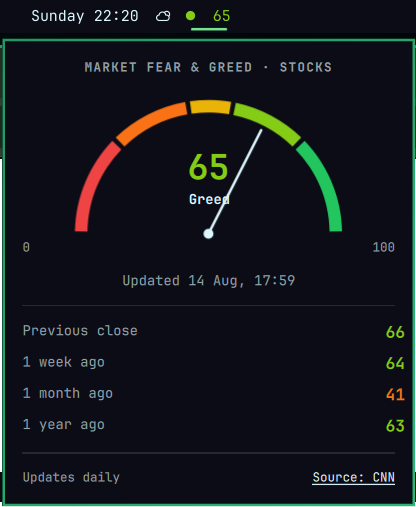
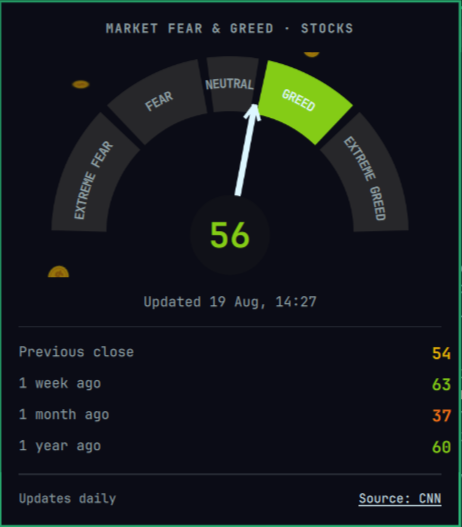
Prepare v1.1.0 release

diff --git a/.github/releases/v1.1.0.md b/.github/releases/v1.1.0.md
@@ -1,0 +1,29 @@
+This update gives the panel a more expressive radial-bands design and animated
+sentiment effects whose intensity follows the displayed score.
+
+## Animation showcase
+
+| Extreme Fear · 10 | Fear · 35 |
+|:---:|:---:|
+| ![Extreme Fear](https://raw.githubusercontent.com/davidojedalopez/omarchy-fear-greed/v1.1.0/showcase/extreme-fear.gif) | ![Fear](https://raw.githubusercontent.com/davidojedalopez/omarchy-fear-greed/v1.1.0/showcase/fear.gif) |
+| **Neutral · 50** | **Greed · 65** |
+| ![Neutral](https://raw.githubusercontent.com/davidojedalopez/omarchy-fear-greed/v1.1.0/showcase/neutral.gif) | ![Greed](https://raw.githubusercontent.com/davidojedalopez/omarchy-fear-greed/v1.1.0/showcase/greed.gif) |
+| **Extreme Greed · 100** | |
+| ![Extreme Greed](https://raw.githubusercontent.com/davidojedalopez/omarchy-fear-greed/v1.1.0/showcase/extreme-greed.gif) | |
+
+## Highlights
+
+- Replaces the thin gauge with labeled radial bands and a straight-edged arrow
+  needle.
+- Adds a glowing, continuously moving fire bed for Fear readings.
+- Adds tumbling coins and fluttering banknotes for Greed readings.
+- Makes both effects more prominent as the score approaches an extreme.
+- Adds `Full`, `Subtle`, and `Off` animation settings.
+- Stops and clears all animation when the panel closes.
+- Adds focused animation tests and an isolated effects preview for contributors.
+
+## Update
+
+```bash
+omarchy plugin update io.github.davidojedalopez.fear-greed
+```

diff --git a/README.md b/README.md
@@ -4,6 +4,20 @@ An Omarchy bar widget for the US stock-market Fear & Greed Index published by CN
 
 ![Market Fear & Greed panel](preview.png)
 
+## Animation showcase
+
+These representative readings use the default `Full` animation mode. Neutral
+is intentionally still, while Fear and Greed become more intense toward their
+extremes.
+
+| Extreme Fear · 10 | Fear · 35 |
+|:---:|:---:|
+| ![Extreme Fear with a tall, turbulent fire bed](showcase/extreme-fear.gif) | ![Fear with a lower moving fire bed](showcase/fear.gif) |
+| **Neutral · 50** | **Greed · 65** |
+| ![Neutral state without particles](showcase/neutral.gif) | ![Greed with falling coins and banknotes](showcase/greed.gif) |
+| **Extreme Greed · 100** | |
+| ![Extreme Greed with dense falling coins and banknotes](showcase/extreme-greed.gif) | |
+
 ## What it shows
 
 - The latest index as a color-coded gauge.

diff --git a/CHANGELOG.md b/CHANGELOG.md
@@ -10,8 +10,11 @@ All notable changes follow semantic versioning.
   Greed readings.
 - Scale particle intensity with the displayed score and stop all animation when
   the panel closes.
+- Replace the thin gauge with labeled radial bands, an active sentiment band,
+  and a shorter straight-edged arrow needle.
 - Add Full, Subtle, and Off animation settings.
-- Add an isolated effects preview and component-level animation tests.
+- Add an isolated effects preview, animated state showcases, and component-level
+  animation tests.
 
 ## 1.0.0 - 2026-08-16
 
